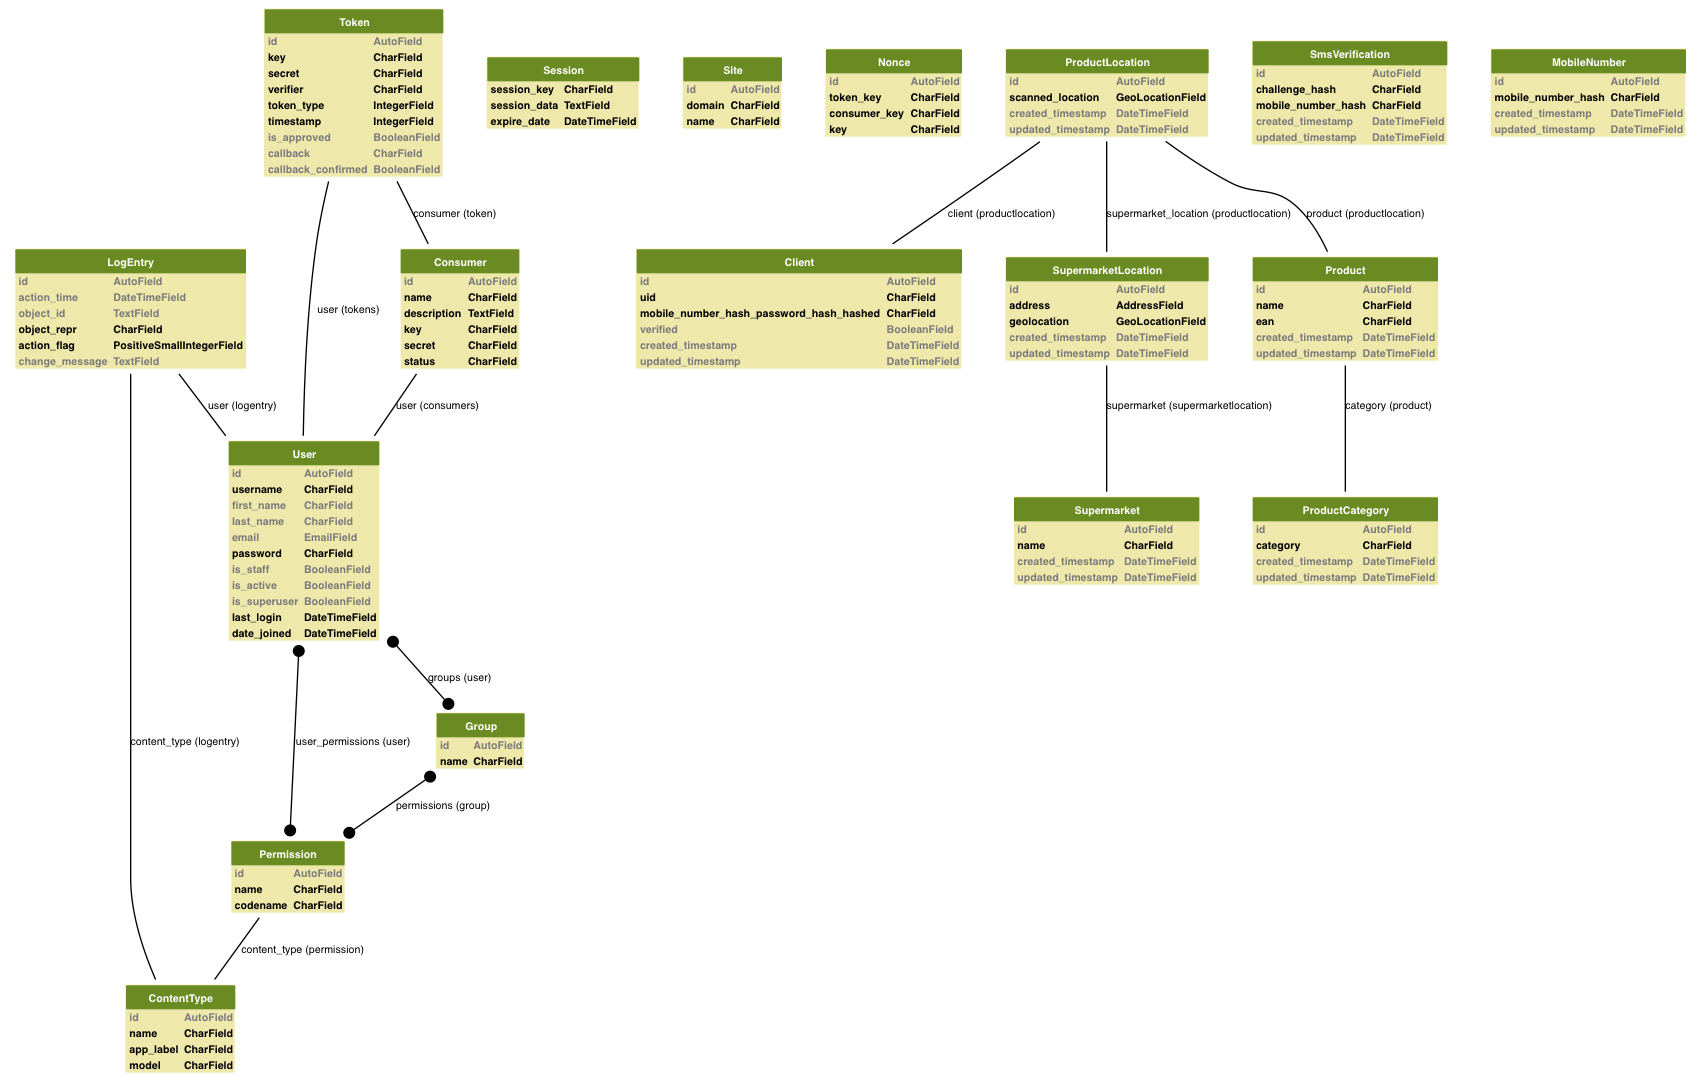
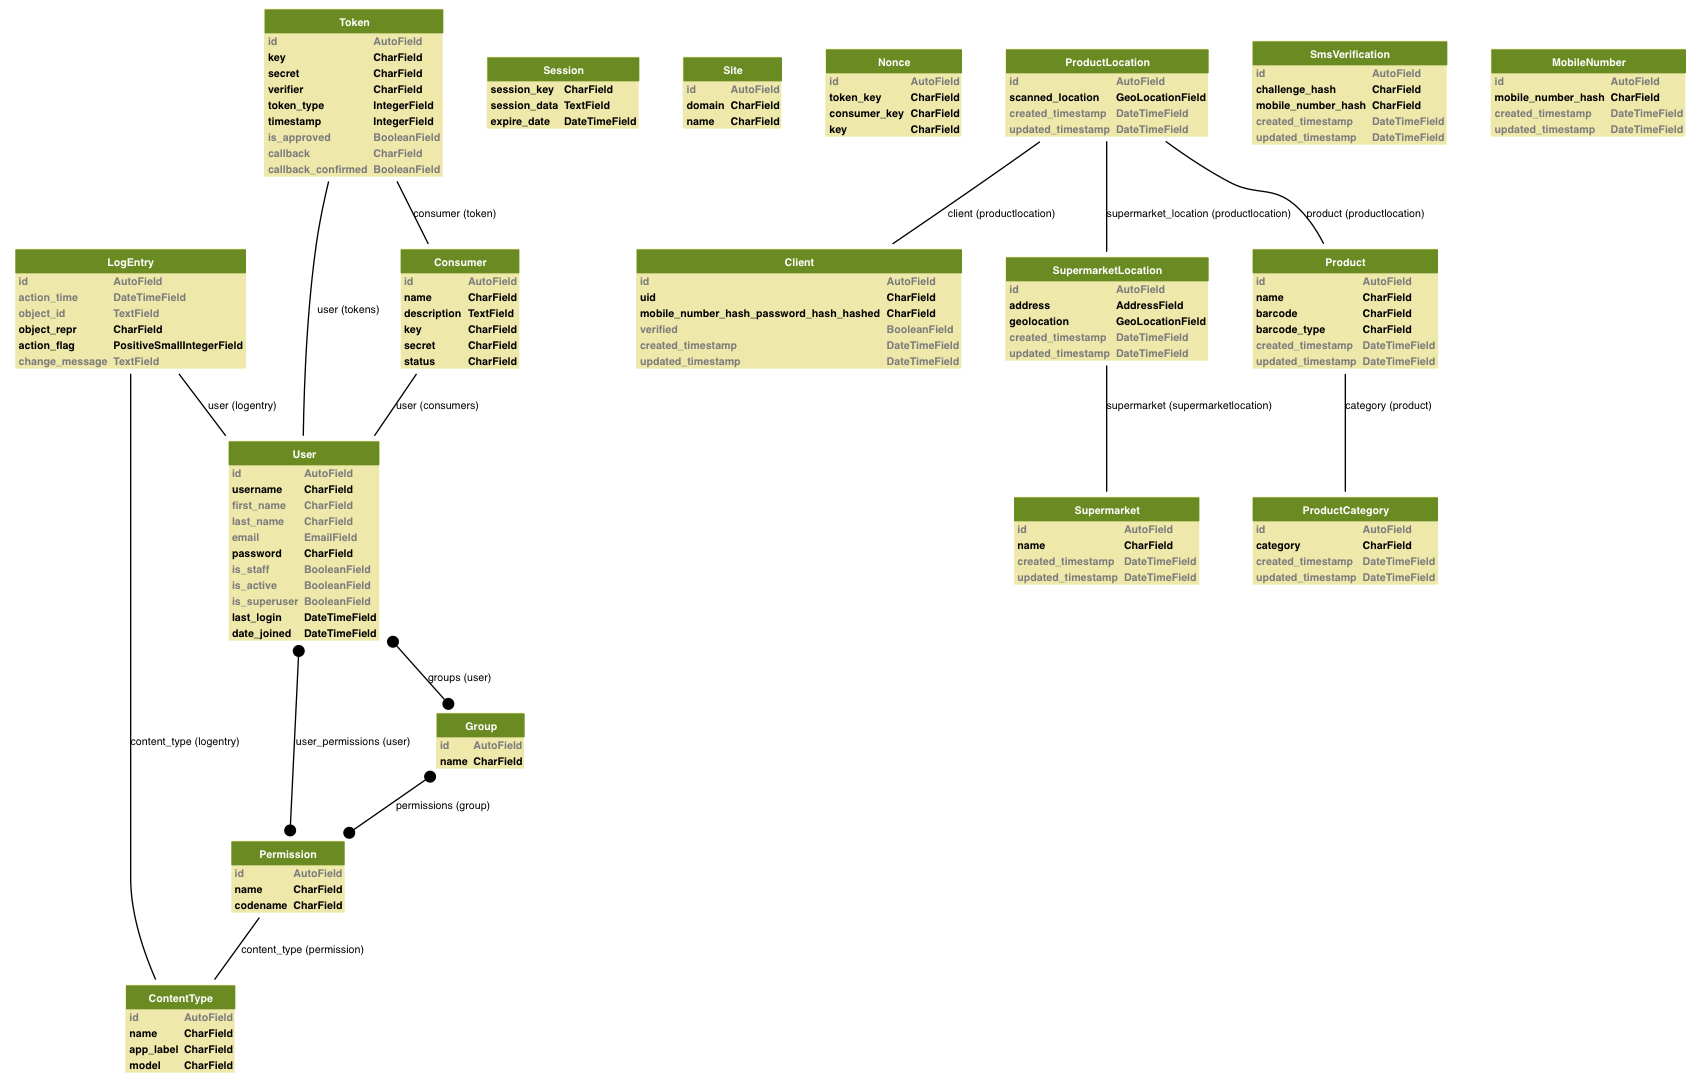
Barcode types

Changed region(s): [[0.7166, 0.2131, 0.8413, 0.3653]]

diff --git a/features/steps.py b/features/steps.py
@@ -36,9 +36,9 @@ import api_handler
 import random
 
 def create_random_product():
-    product_ean = "test_ean_%f" % random.random()
+    product_barcode = "test_barcode_%f" % random.random()
     category = products.ProductCategory.create_product_category("test_category_%f" % random.random())
-    return products.Product.create_product("test_product_%f" % random.random(), product_ean, category)
+    return products.Product.create_product("test_product_%f" % random.random(), product_barcode, products.BARCODE_TYPE.EAN13, category)
 
 
 
@@ -71,13 +71,13 @@ def then_i_cannot_verify_the_user_with_incorrect_challenge(step):
 @step(u'And I can contribute to the crowd database on an existing product')
 def and_i_can_contribute_to_crowd_database_on_an_existing_product(step):
     product = create_random_product()
-    api_handler.create_product_location(world.mobile_number, world.password, product.ean, "1.0, 2.0")
+    api_handler.create_product_location(world.mobile_number, world.password, product.barcode, products.BARCODE_TYPE.EAN13, "1.0, 2.0")
 
 @step(u'Then I can contribute to the crowd database on an existing product')
 def then_i_can_contribute_to_the_crowd_database_on_an_existing_product(step):
     product = create_random_product()
     try:
-        api_handler.create_product_location(world.mobile_number, world.password, product.ean, "1.0, 2.0")
+        api_handler.create_product_location(world.mobile_number, world.password, product.barcode, products.BARCODE_TYPE.EAN13, "1.0, 2.0")
         raise BaseException("Was able to contribute even though not verified")
     except api_handler.WebserviceException:
         pass

diff --git a/etiktak/products/models.py b/etiktak/products/models.py
@@ -28,8 +28,14 @@
 from etiktak.supermarkets import models as supermarkets
 from etiktak.clients import models as clients
 
+from etiktak.util import util
+
 from django_google_maps import fields as map_fields
 from django.db import models
+
+BARCODE_TYPE = util.enum(
+    EAN13="EAN13",
+    UPC="UPC")
 
 class ProductCategory(models.Model):
     category = models.CharField(max_length=255, unique=True)
@@ -55,23 +61,24 @@ class ProductCategory(models.Model):
 
 class Product(models.Model):
     name = models.CharField(max_length=255)
-    ean = models.CharField(max_length=100, unique=True)
+    barcode = models.CharField(max_length=100, unique=True)
+    barcode_type = models.CharField(max_length=64)
     category = models.ForeignKey(ProductCategory)
     created_timestamp = models.DateTimeField(auto_now_add=True)
     updated_timestamp = models.DateTimeField(auto_now=True)
 
     @staticmethod
-    def create_product(name, ean, category):
+    def create_product(name, barcode, barcode_type, category):
         """
         Creates and saves a product with the specified name,
-        ean and category.
+        barcode and category.
         """
-        product = Product(name = name, ean = ean, category = category)
+        product = Product(name = name, barcode = barcode, barcode_type = barcode_type, category = category)
         product.save()
         return product
 
     def __unicode__(self):
-        return u"%s | %s" % (self.product_name, self.product_ean)
+        return u"%s | %s | %s" % (self.name, self.barcode_type, self.barcode)
 
     class Meta:
         verbose_name = u"Produkt"

diff --git a/api/product_handlers.py b/api/product_handlers.py
@@ -31,13 +31,14 @@ from piston.handler import BaseHandler
 class CreateProductLocationHandler(BaseHandler):
     allowed_methods = ('GET',)
 
-    def read(self, request, mobile_number=None, password=None, ean=None, geo_location=None):
+    def read(self, request, mobile_number=None, password=None, barcode=None, barcode_type=None, geo_location=None):
         try:
             mobile_number = util.getRequiredParam(request, 'mobile_number')
             password = util.getRequiredParam(request, 'password')
-            ean = util.getRequiredParam(request, 'ean')
+            barcode = util.getRequiredParam(request, 'barcode')
+            barcode_type = util.getRequiredParam(request, 'barcode_type')
             geo_location = util.getRequiredParam(request, 'geo_location')
-            product_service.create_product_location(mobile_number, password, ean, geo_location)
+            product_service.create_product_location(mobile_number, password, barcode, barcode_type, geo_location)
             return {"result": "OK"}
         except Exception as e:
             return {"result": e}

diff --git a/etiktak/service/product_service.py b/etiktak/service/product_service.py
@@ -28,8 +28,8 @@
 from etiktak.clients.models import Client
 from etiktak.products.models import *
 
-def create_product_location(mobile_number, password, ean, geo_location):
+def create_product_location(mobile_number, password, barcode, barcode_type, geo_location):
     client = Client.objects.get(mobile_number, password)
-    product = Product.objects.get(ean=ean)
+    product = Product.objects.get(barcode=barcode, barcode_type=barcode_type)
     ProductLocation.create_product_location(product, geo_location, client)
-    print "Created product location for mobile number: %s and EAN: %s\n" % (mobile_number, ean)
+    print "Created product location for mobile number: %s and barcode: %s (%s)\n" % (mobile_number, barcode, barcode_type)

diff --git a/features/api_handler.py b/features/api_handler.py
@@ -73,8 +73,8 @@ def verify_user(mobile_number, password, challenge):
     verify_json_result(result, "OK")
     return result
 
-def create_product_location(mobile_number, password, ean, geo_location):
-    call(CREATE_PRODUCT_LOCATION_URL, [("mobile_number", mobile_number), ("password", password), ("ean", ean), ("geo_location", geo_location)])
+def create_product_location(mobile_number, password, barcode, barcode_type, geo_location):
+    call(CREATE_PRODUCT_LOCATION_URL, [("mobile_number", mobile_number), ("password", password), ("barcode", barcode), ("barcode_type", barcode_type), ("geo_location", geo_location)])
     result = json.loads(world.response.content)
     verify_json_result(result, "OK")
     return result

diff --git a/etiktak/util/util.py b/etiktak/util/util.py
@@ -37,3 +37,6 @@ def getRequiredParam(request, param):
 
 def generate_challenge():
     return uuid.uuid4().hex
+
+def enum(**enums):
+    return type('Enum', (), enums)
